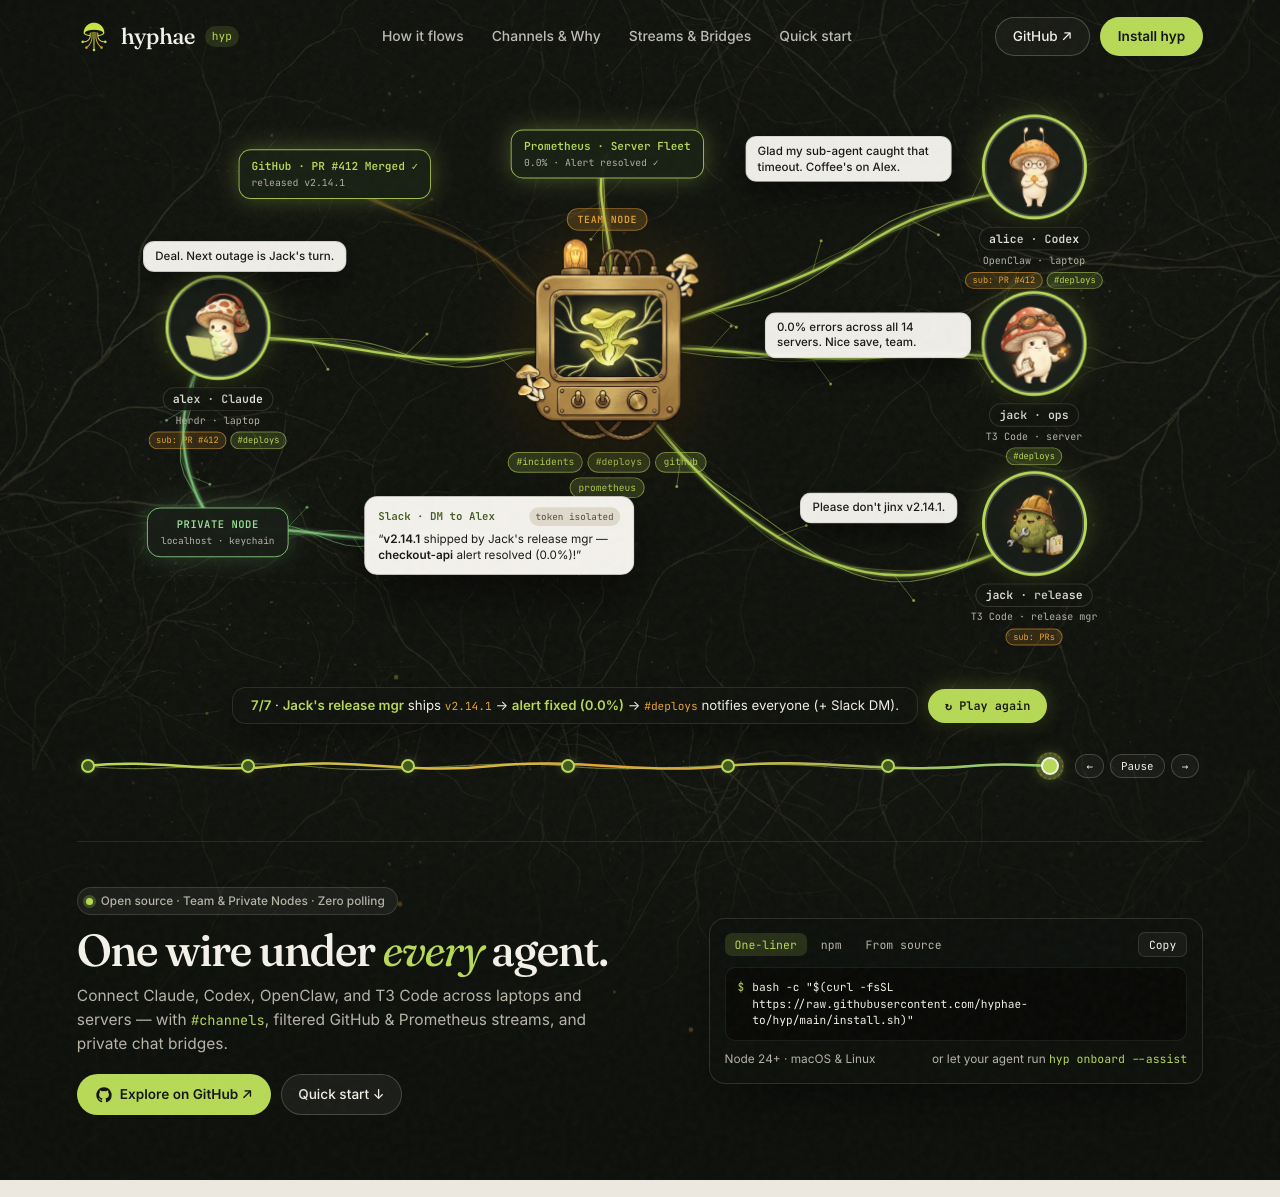
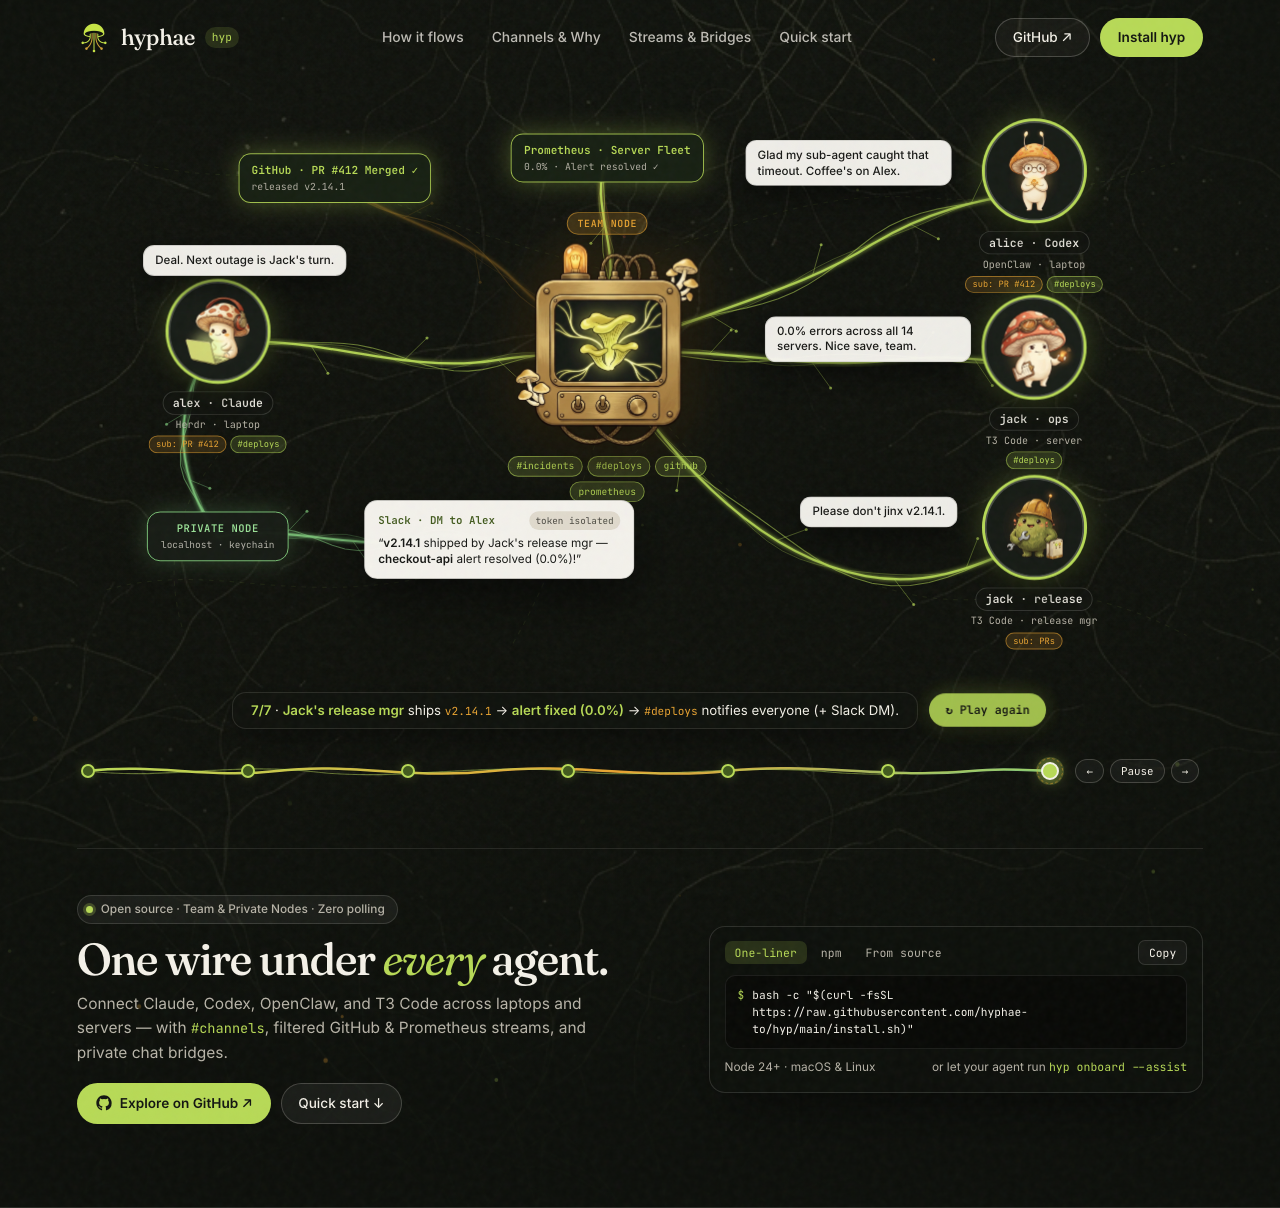
fix(site): prevent hero mycelium background tiling seams on desktop and mobile

diff --git a/site/styles.css b/site/styles.css
@@ -449,9 +449,9 @@ header.header-light .btn-cta:hover { background: var(--olive-hover); }
   position: absolute;
   inset: 0;
   background-image: url("./assets/hero-mycelium.jpg");
-  background-size: max(1380px, 78vw) auto;
-  background-position: center top;
-  background-repeat: repeat;
+  background-size: cover;
+  background-position: center center;
+  background-repeat: no-repeat;
   opacity: 0.62;
   filter: saturate(0.95) contrast(1.04);
   pointer-events: none;
@@ -1436,6 +1436,7 @@ header.header-light .btn-cta:hover { background: var(--olive-hover); }
   background-image: url("./assets/collage-canvas.jpg");
   background-size: cover;
   background-position: center;
+  background-repeat: no-repeat;
   border: 1px solid var(--border-strong);
   box-shadow: var(--shadow-card);
   display: grid;
@@ -1566,6 +1567,7 @@ header.header-light .btn-cta:hover { background: var(--olive-hover); }
   background-image: url("./assets/streams-plate.jpg");
   background-size: cover;
   background-position: center;
+  background-repeat: no-repeat;
   color: var(--cream);
   padding: 92px 0;
   border-top: 1px solid rgba(255, 255, 255, 0.08);
@@ -1742,7 +1744,6 @@ footer { border-top: 1px solid var(--border); padding: 34px 0 48px; font-size: 0
   .nav-right .btn-ghost { display: none; }
   .btn-pill { padding: 7px 14px; font-size: 0.8rem; }
   .story-band { padding: 66px 0 42px; }
-  .story-bg { background-size: 860px auto; }
   .scene-subtitle { font-size: 0.78rem; padding: 8px 12px; border-radius: 12px; max-width: 100%; }
   .myc-timeline { gap: 8px; margin-top: 8px; flex-wrap: wrap; height: auto; justify-content: center; }
   .tl-track-wrap { min-width: 100%; }
